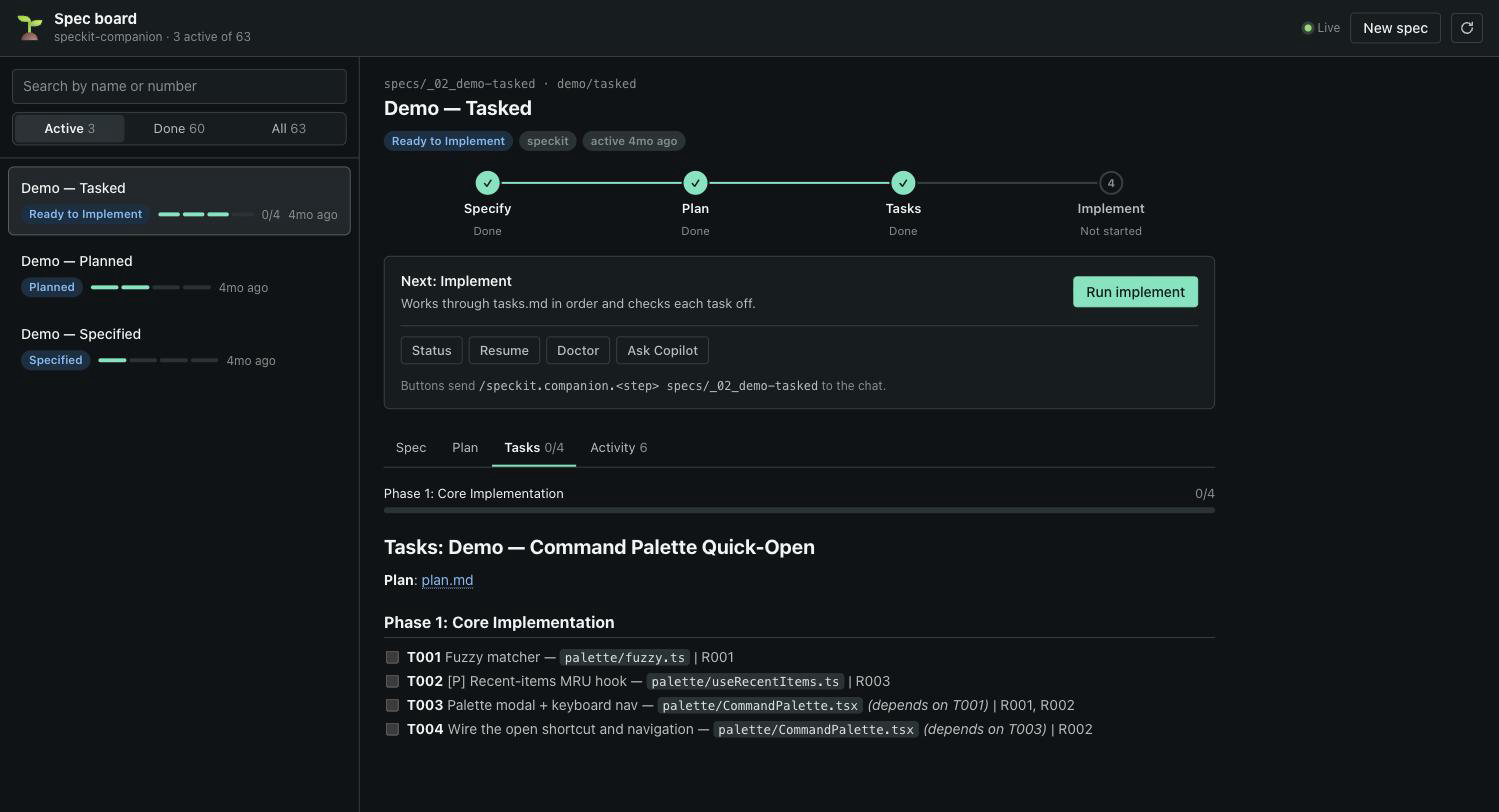
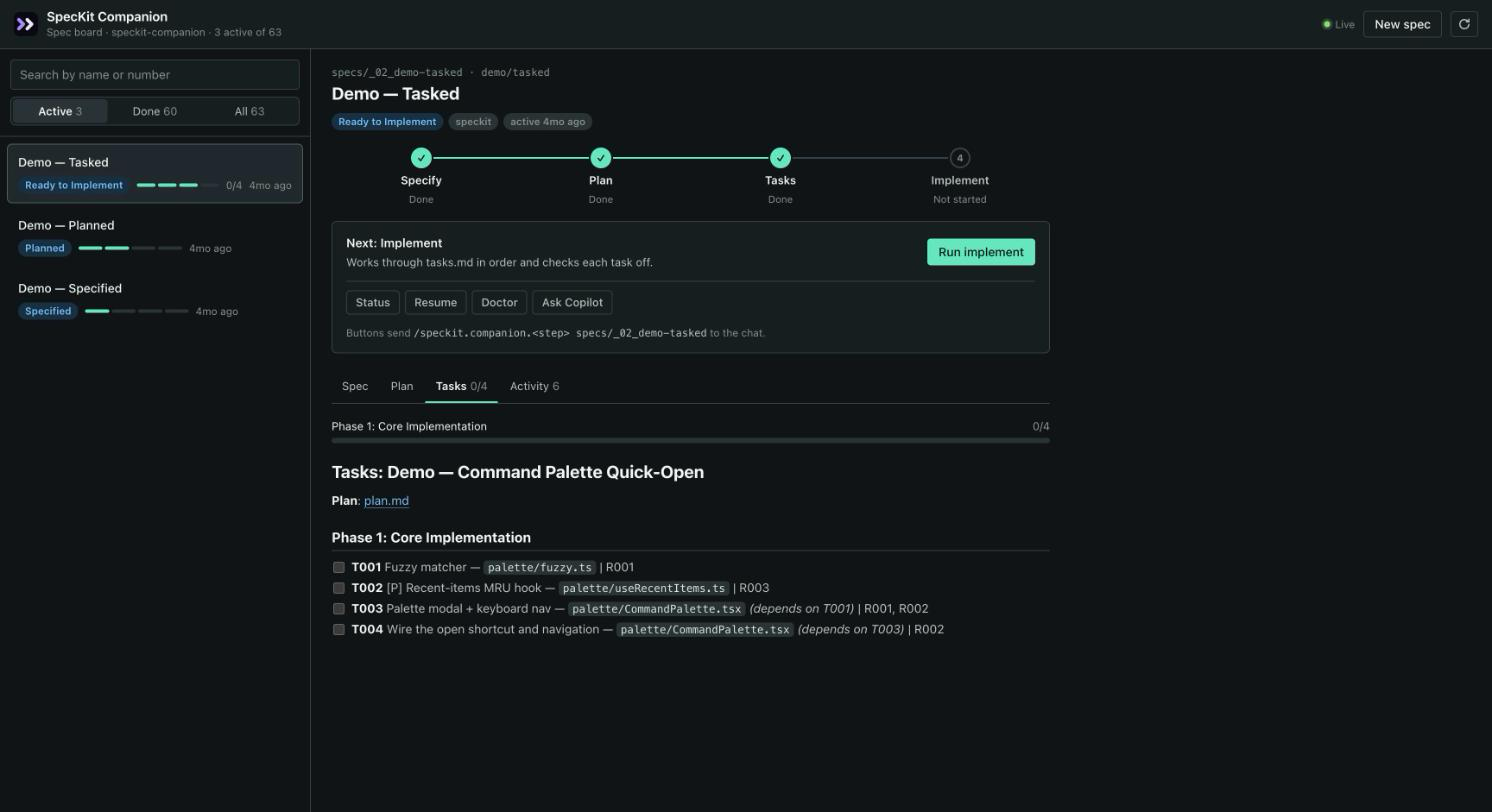
feat(copilot-canvas): brand the board as SpecKit Companion and flag stock Spec Kit
The canvas is listed and titled SpecKit Companion, with the brand's chevron mark in the header. When a workspace has only stock Spec Kit (such as the Copilot app's worktrees here), the next-step card says so and names the install command. The header shows the repository's name, not the worktree folder's. Adds the awesome-copilot listing manifest and refreshes the preview.

diff --git a/apps/copilot-canvas/public/app.js b/apps/copilot-canvas/public/app.js
@@ -128,10 +128,13 @@ function renderBoard() {
     $('count-active').textContent = active;
     $('count-done').textContent = specs.length - active;
     $('count-all').textContent = specs.length;
-    els.repoLine.textContent = `${state.snapshot.repoName} · ${active} active of ${specs.length}`;
+    els.repoLine.textContent = `Spec board · ${state.snapshot.repoName} · ${active} active of ${specs.length}`;
 
     const shown = visibleSpecs();
     els.listEmpty.hidden = shown.length > 0;
+    els.listEmpty.textContent = specs.length === 0
+        ? 'No specs here yet. Use New spec to start one.'
+        : 'No specs match.';
     els.list.replaceChildren(...shown.map(spec => el('li', {},
         el('button', {
             class: 'spec-card',
@@ -211,7 +214,12 @@ function renderNext(spec) {
             el('div', { class: 'next-copy' }, el('p', { class: 'next-title' }, next.title), el('p', { class: 'next-why' }, next.why)),
             primary),
         el('div', { class: 'next-more' }, more),
-        el('p', { class: 'command-hint' }, 'Buttons send ', el('code', {}, `/${prefix}.<step> ${spec.id}`), ' to the chat.'));
+        state.snapshot.commandSet === 'companion'
+            ? el('p', { class: 'command-hint' }, 'Buttons send ', el('code', {}, `/${prefix}.<step> ${spec.id}`), ' to the chat.')
+            : el('p', { class: 'command-hint stock' },
+                el('strong', {}, 'Running stock GitHub Spec Kit. '),
+                'The SpecKit Companion commands aren\'t installed in this workspace, so buttons send ', el('code', {}, `/speckit.<step>`),
+                '. Add them with ', el('code', {}, 'specify extension add companion'), ' to get live capture, Resume and Doctor.'));
 }
 
 function tabsFor(detail) {
@@ -284,7 +292,6 @@ function renderDetail() {
     const detail = state.detail;
     if (!detail) {
         els.detail.replaceChildren(el('div', { class: 'detail-empty' },
-            el('img', { src: '/seedling.svg', alt: '', width: 40, height: 40 }),
             el('p', {}, 'Pick a spec to see its pipeline, documents and history.')));
         return;
     }

diff --git a/apps/copilot-canvas/public/styles.css b/apps/copilot-canvas/public/styles.css
@@ -128,7 +128,8 @@ button { font: inherit; color: inherit; }
 }
 .brand-mark { flex: none; }
 .brand { flex: 1; min-width: 0; }
-.brand h1 { margin: 0; font-size: 15px; line-height: 1.2; color: var(--text-primary); }
+.brand h1 { margin: 0; font-size: 15px; font-weight: 650; letter-spacing: -0.01em; line-height: 1.2; color: var(--text-primary); }
+.brand-mark { border-radius: 7px; }
 .brand-sub { margin: 0; font-size: 12px; color: var(--text-muted); overflow: hidden; text-overflow: ellipsis; white-space: nowrap; }
 
 .live { display: inline-flex; align-items: center; gap: 6px; font-size: 12px; color: var(--text-muted); }
@@ -219,7 +220,8 @@ button { font: inherit; color: inherit; }
     padding: 8px;
     list-style: none;
 }
-.list-empty { padding: 16px; color: var(--text-muted); text-align: center; }
+.spec-list:empty { flex: 0; padding: 0; }
+.list-empty { margin: 0; padding: 32px 16px; color: var(--text-muted); text-align: center; }
 
 .spec-card {
     display: grid;
@@ -296,7 +298,7 @@ button { font: inherit; color: inherit; }
     color: var(--text-muted);
     text-align: center;
 }
-.detail-empty img { opacity: 0.8; }
+.detail-empty p { max-width: 260px; margin: 0; color: var(--text-body); }
 
 .detail-inner { max-width: 880px; padding: 20px 24px 40px; }
 
@@ -366,6 +368,8 @@ button { font: inherit; color: inherit; }
 .btn.sent { background: var(--success-subtle); border-color: var(--success); color: var(--success); }
 .command-hint { margin: 0; font-size: 12px; color: var(--text-muted); }
 .command-hint code { font: 12px var(--font-mono); color: var(--text-body); }
+.command-hint.stock { padding: 8px 10px; border-radius: var(--radius-sm); background: var(--warning-subtle); color: var(--text-body); }
+.command-hint.stock strong { color: var(--warning); }
 
 .intent {
     margin: 16px 0 0;

diff --git a/apps/copilot-canvas/public/index.html b/apps/copilot-canvas/public/index.html
@@ -3,15 +3,15 @@
 <head>
     <meta charset="utf-8">
     <meta name="viewport" content="width=device-width, initial-scale=1">
-    <title>SpecKit Spec Board</title>
+    <title>SpecKit Companion</title>
     <link rel="stylesheet" href="/styles.css">
     <script type="module" src="/app.js"></script>
 </head>
 <body>
     <header class="topbar">
-        <img class="brand-mark" src="/seedling.svg" alt="" width="28" height="28">
+        <img class="brand-mark" src="/logo.svg" alt="" width="28" height="28">
         <div class="brand">
-            <h1>Spec board</h1>
+            <h1>SpecKit Companion</h1>
             <p class="brand-sub" id="repo-line">Loading specs…</p>
         </div>
         <span class="live" id="live" data-state="connecting"><span class="live-dot" aria-hidden="true"></span><span id="live-label">Connecting</span></span>
@@ -45,7 +45,6 @@
 
         <main class="detail" id="detail" tabindex="-1">
             <div class="detail-empty" id="detail-empty">
-                <img src="/seedling.svg" alt="" width="40" height="40">
                 <p>Pick a spec to see its pipeline, documents and history.</p>
             </div>
         </main>

diff --git a/apps/copilot-canvas/README.md b/apps/copilot-canvas/README.md
@@ -32,7 +32,7 @@ mkdir -p ~/.copilot/extensions/speckit-companion
 echo "import '$PWD/apps/copilot-canvas/extension.mjs';" > ~/.copilot/extensions/speckit-companion/extension.mjs
 ```
 
-Then open the project in the Copilot app, start a session, and ask for the **SpecKit Spec Board** canvas. It also appears under **Customize → Canvas**.
+Then open the project in the Copilot app, start a session, and ask for the **SpecKit Companion** canvas. It also appears under **Customize → Canvas**.
 
 The run buttons need the Companion commands in the project (`specify extension add companion …`, see the [spec-kit extension README](../speckit-extension/README.md)). Without them the buttons send the stock `/speckit.plan`, `/speckit.tasks` and `/speckit.implement`.
 
@@ -57,6 +57,6 @@ Clicking through the demo specs (`specs/_0N_demo-*`) can change their `.spec-con
 | `tasks.mjs` | Task checkbox parsing. It agrees with the VS Code extension through the shared `apps/vscode/tests/fixtures/task-grammar/` cases. |
 | `markdown.mjs` | A small markdown renderer that escapes everything first. |
 | `prompts.mjs` | The chat lines the buttons send. |
-| `public/` | The board page: plain HTML, CSS and JS, with no build step. |
+| `public/` | The board page: plain HTML, CSS and JS, with no build step. The logo mark is a copy of the site's small-cut mark (`apps/website/public/favicon.svg`). |
 
-The folder has the same layout as an entry in [awesome-copilot's extensions](https://github.com/github/awesome-copilot/tree/main/extensions). To list it there, add a `plugins/speckit-companion/plugin.json` whose `logo` points at `assets/preview.png`, then follow their [contributing guide](https://github.com/github/awesome-copilot/blob/main/CONTRIBUTING.md#adding-canvas-extensions).
+The folder has the same layout as an entry in [awesome-copilot's extensions](https://github.com/github/awesome-copilot/tree/main/extensions). `plugin.json` is the listing manifest, ready to copy to their `plugins/speckit-companion/plugin.json`. Its `logo` is the `assets/preview.png` screenshot, which is also the listing card image. The app lists the canvas by its `displayName` (SpecKit Companion) and `description` from `extension.mjs`. To submit it, follow their [contributing guide](https://github.com/github/awesome-copilot/blob/main/CONTRIBUTING.md#adding-canvas-extensions).
